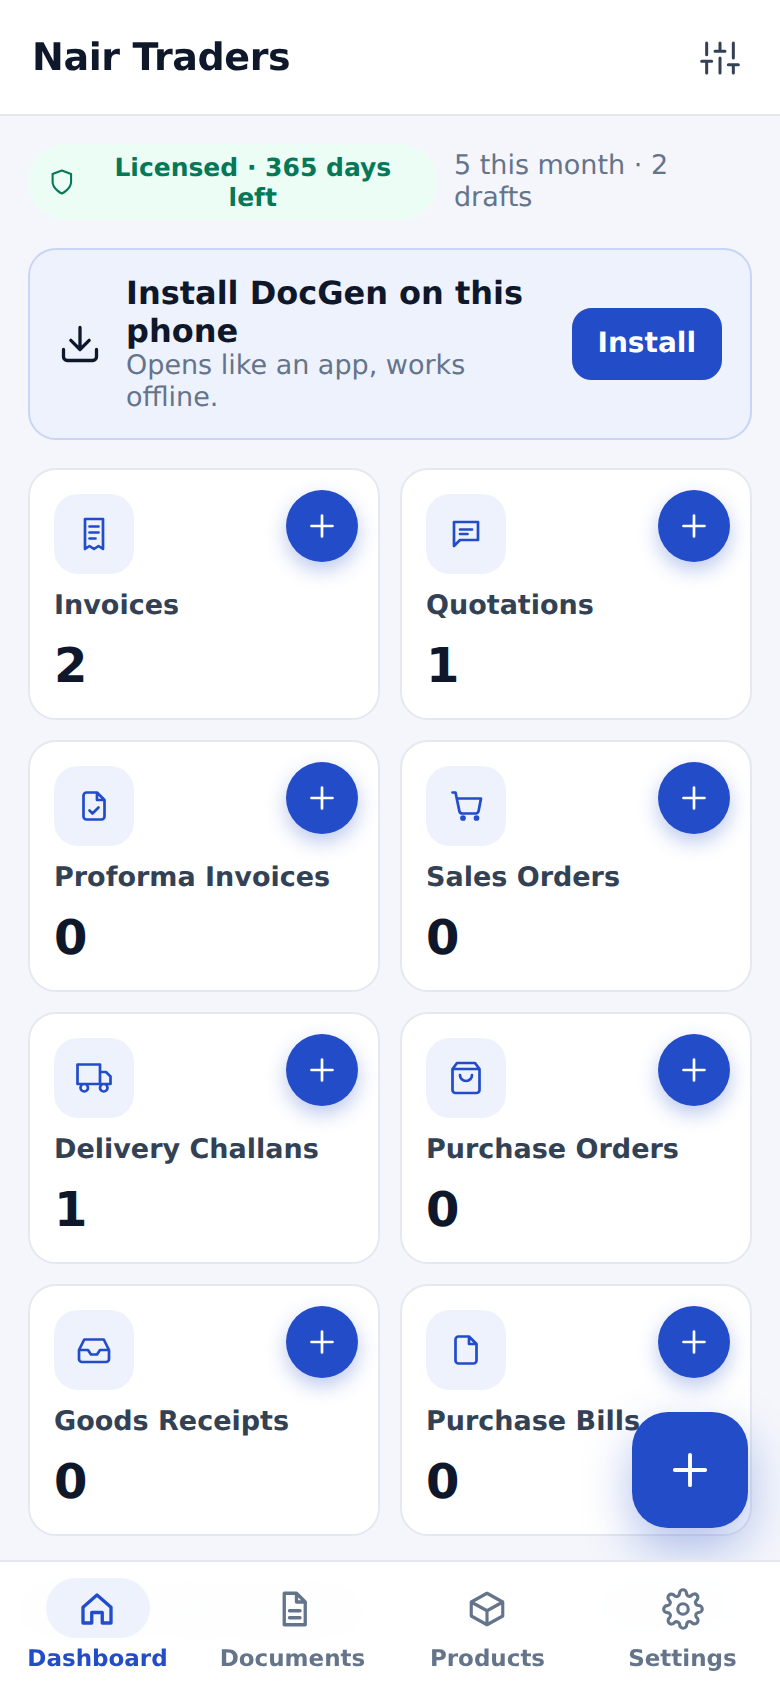
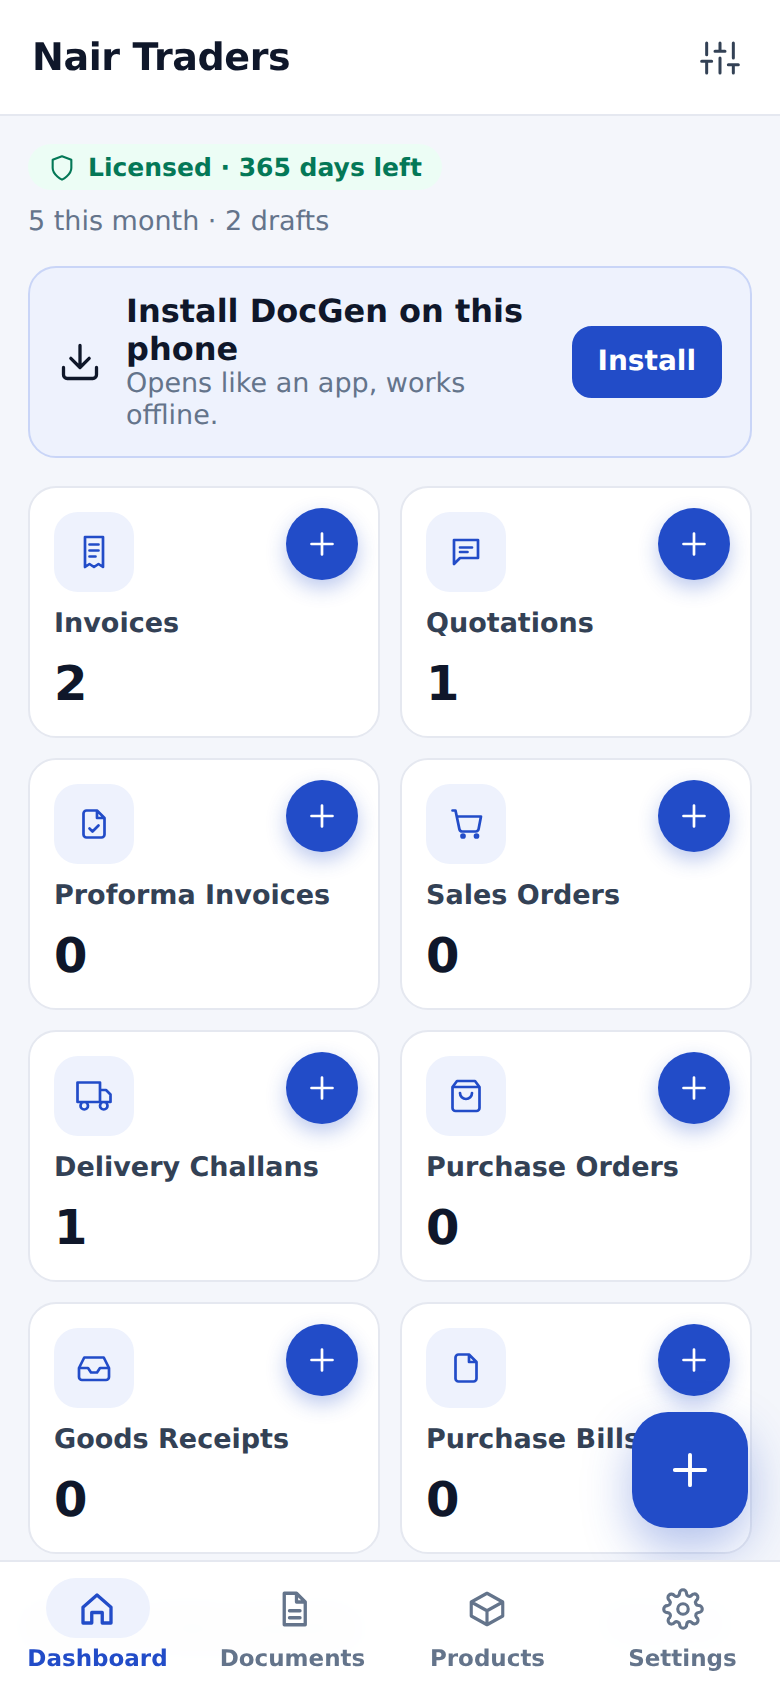
DocGen Mobile: tests for all desktop features (95 checks), screenshots, docs
- Mobile e2e: setup, invoices in the 4 templates, convert / duplicate / cancel / delete / restore, files,
  sales CSV, products and categories, settings, backup and restore, sample data, data from the first version
- Website and install page describe the full feature set; README / TESTING updated
- View buttons and license chip no longer wrap on narrow phones

Claude-Session: https://claude.ai/code/session_01D7TVF84vM5FBD22BWzVv3k

diff --git a/server/frontend/src/pages/portal/ProductPage.jsx b/server/frontend/src/pages/portal/ProductPage.jsx
@@ -325,8 +325,8 @@ export default function ProductPage() {
                 <span className="lp-eyebrow">New</span>
                 <h2 className="lp-title">DocGen on Mobile</h2>
                 <p className="lp-lead">
-                  Create invoices and quotations on your phone — even without internet. Install it from the browser in seconds; the same license
-                  works on your computer and up to {product?.maxMobileDevices || 2} phones.
+                  Everything DocGen does on your computer — all document types and the same invoice templates — on your phone, even without
+                  internet. Install it from the browser in seconds; the same license works on your computer and up to {product?.maxMobileDevices || 2} phones.
                 </p>
                 <div className="hero-cta" style={{ marginTop: 18 }}>
                   <Link className="btn btn-primary btn-lg" to="/mobile" data-testid="get-mobile">

diff --git a/server/frontend/src/pages/portal/MobilePage.jsx b/server/frontend/src/pages/portal/MobilePage.jsx
@@ -14,7 +14,7 @@ const isPhone = () => /Android|iPhone|iPad|Mobile/i.test(navigator.userAgent);
 const isLocal = () => ['localhost', '127.0.0.1', '[::1]'].includes(window.location.hostname);
 
 const FEATURES = [
-  ['file', 'Invoices & quotations', 'GST tax invoices, quotations, proforma invoices, estimates, delivery challans and more.'],
+  ['file', 'Everything the desktop app does', 'All 18 document types — GST invoices, quotations, challans, orders, receipts … — in the same 4 templates (Tally Professional, Tally Standard, Modern, Simple).'],
   ['monitor', 'Works offline', 'Your documents, customers and products are stored on the phone. No internet needed to work.'],
   ['printer', 'Share as PDF', 'Print or save any document as a PDF and send it on WhatsApp or email.'],
   ['key', 'Sign in once', 'Enter your license key once. DocGen remembers it while your license is valid.'],

diff --git a/server/mobile/src/styles.css b/server/mobile/src/styles.css
@@ -1685,3 +1685,14 @@ button.license-chip {
     grid-template-columns: 1fr 1fr;
   }
 }
+.view-actions .btn {
+  font-size: 15px;
+  white-space: nowrap;
+  gap: 6px;
+}
+.license-chip {
+  white-space: nowrap;
+}
+.page > .row.between {
+  flex-wrap: wrap;
+}

diff --git a/server/README.md b/server/README.md
@@ -28,9 +28,9 @@ Client panel → Services: product → duration → Razorpay payment → server 
 - **App API** (desktop and mobile): account sign-in, key activation, license refresh/release — computers
   and phones are counted separately and the limits are enforced by the server — plus remote
   configuration (check interval, ads, help videos) and anonymous ad counters for the desktop app.
-- **DocGen Mobile**: installable web app (PWA) for Android and iPhone at `/app/` — works on the phone
-  (IndexedDB), license key stored on the device, no repeated sign-in while the license is valid. See
-  [DocGen Mobile](#docgen-mobile).
+- **DocGen Mobile**: installable web app (PWA) for Android and iPhone at `/app/` with the desktop app's features
+  (all document types, the 4 templates, documents & files, products, settings) — works on the phone (IndexedDB),
+  license key stored on the device, no repeated sign-in while the license is valid. See [DocGen Mobile](#docgen-mobile).
 - **Admin panel** (sidebar; a menu on phones): dashboard (sales this month, revenue, recent sales,
   licenses ending soon, ad campaigns), customers, payments (with the duration bought; mark paid, refund),
   licenses (give without payment, bulk codes, extend, computers/phones allowed, suspend, revoke),
@@ -77,7 +77,7 @@ server/
 │   ├── scripts/    migrate, create-admin, build-portal, load test …
 │   └── test/       API tests
 ├── frontend/       website, client panel + admin panel (React + Vite) → frontend/dist
-├── mobile/         DocGen Mobile, installable web app (React + Vite, IndexedDB) → mobile/dist, served at /app/
+├── mobile/         DocGen Mobile, installable web app (React + Vite, IndexedDB; uses ../document-generator/src) → mobile/dist, at /app/
 └── data/           database (SQLite), license key, uploads — created at first start
 ```
 
@@ -248,22 +248,37 @@ Timestamps are stored as ISO-8601 UTC text, so the server's MySQL time zone does
 
 ### DocGen Mobile
 
-[`mobile/`](mobile/) is a separate React app, built to `mobile/dist` and served at `/app/`. It is a
-Progressive Web App: Android (Chrome) offers *Install*, iPhone uses *Share → Add to Home Screen*;
-`/mobile` explains it with screenshots, a QR code and the install button.
+[`mobile/`](mobile/) is a React app, built to `mobile/dist` and served at `/app/`. It is a Progressive Web App:
+Android (Chrome) offers *Install*, iPhone uses *Share → Add to Home Screen*; `/mobile` explains it with
+screenshots, a QR code and the install button.
 
-- **Works on the phone**: documents, parties, products and settings are stored in IndexedDB; nothing
-  is uploaded. Settings → Backup exports/imports a JSON file. A service worker keeps the app working offline.
-- **License on the device**: the customer enters the license key (or email + password) once. The signed
-  token is stored in IndexedDB encrypted with a non-extractable AES-GCM key; a summary (key, start, expiry,
-  device id) in localStorage only for display. At every start the app verifies the token's Ed25519
+- **Same features as the desktop app.** The mobile build imports the desktop app's own code from
+  `document-generator/src` (see `mobile/vite.config.js`): all 18 document types, the 4 templates and renderer
+  (Tally Professional, Tally Standard, Modern, Simple), the GST/decimal engine, numbering formats, amount in words,
+  HSN summary, UPI QR code and the document services. Only the screens are phone-specific (bottom tabs Dashboard ·
+  Documents · Products · Settings). The desktop app itself is not changed. Because of this, build the server from
+  the whole repository (the `document-generator/src` folder must be present next to `server/`).
+- **What is on the phone:** Dashboard (cards per document type with +, Customize, recent documents); Documents
+  (search, type filter, status change, view / edit / print / duplicate / convert / cancel / delete / restore,
+  uploaded files — PDF, photos, Excel … — with rename, save a copy, delete / restore, and the sales CSV download);
+  editor (saved customers and products, GSTIN → state, CGST/SGST or IGST from the place of supply, discounts,
+  shipping, other charges, round off, additional details per type, receipts and payment vouchers, live preview);
+  document view (template per document, Print / Save as PDF with 1–4 copies, share, history, contact the customer
+  by call / WhatsApp / email); Products & Services with categories; Settings (Company with logo, signature and stamp,
+  Documents, Document Types, Tax, Currency, Numbering, Units, General with sample data, License, Backup, Help, About).
+  Left out on purpose: the desktop's ads, theme switch and keyboard shortcuts.
+- **Storage:** the desktop's backend commands (Rust/SQLite on a computer) are implemented over IndexedDB in
+  [`mobile/src/engine/`](mobile/src/engine/) — same allow-lists, validation messages, numbering and history. Backup
+  is one JSON file (documents, files, images, settings); restoring keeps a safety copy. Data saved by the first
+  mobile version is converted automatically on first start.
+- **License on the device**: the customer enters the license key (or email + password) once. The signed token is
+  stored in IndexedDB encrypted with a non-extractable AES-GCM key (when the browser allows it); a summary (key,
+  start, expiry, device id) in localStorage only for display. At every start the app verifies the token's Ed25519
   signature with the server's public key and the device id — editing localStorage does not unlock it.
-- **Validation**: refreshes the license once a day when online (`/api/app/license/refresh`), works up to
-  30 days offline, locks when the license expired (or the clock was turned back) and unlocks after
-  *Check again* once the license is extended. A phone removed in the client/admin panel must activate again.
+- **Validation**: refreshes the license once a day when online (`/api/app/license/refresh`), works up to 30 days
+  offline, locks when the license expired (or the clock was turned back) and unlocks after *Check again* once the
+  license is extended. A phone removed in the client/admin panel must activate again.
 - **Phone limit**: from the product (default 2) or set per license — enforced by the server.
-- Screens: bottom tabs Dashboard, Documents, Products & Services, Settings; 8 document types with GST
-  calculation, share/print as PDF.
 
 ### Testing DocGen Mobile on a phone
 
@@ -336,8 +351,9 @@ Errors: `{ "error": { "code": "LICENSE_EXPIRED", "message": "…" } }`. Lists ar
 npm test                     # API + customer-journey tests (SQLite); TEST_DATABASE_URL=mysql://… runs them on MySQL
 npm run test:portal          # browser test: ad → product page → duration → checkout → Razorpay (simulated) → license, download,
                              #   extend, phones, client panel at phone width → admin (prices, downloads, licenses …)
-npm run test:mobile          # browser test of DocGen Mobile in a phone-sized window: install page, activation, device limit,
-                             #   documents, products, backup, offline, expiry lock, extension
+npm run test:mobile          # browser test of DocGen Mobile in a phone-sized window: install page, activation, setup, invoices
+                             #   in the 4 templates, convert / cancel / delete / restore, files, sales CSV, products, settings,
+                             #   backup, sample data, offline, phone limit, expiry lock, data from the first mobile version
 npm run loadtest             # seeds 10,000 clients + licenses, measures key endpoints (LOAD_CLIENTS=…)
 npm run seed:load -- 10000   # seed an existing (test!) database
 ```

diff --git a/TESTING.md b/TESTING.md
@@ -11,8 +11,8 @@ Last full run: **3 October 2026** (after prices per duration, license extension,
 | Server API + customer-journey tests (SQLite) | `cd server && npm test` | **54 / 54 passed** (19 API, 34 journey/checkout/payments/licensing/durations/phones/downloads/email, 1 rate-limit) |
 | Server API + customer-journey tests (MySQL 8.0) | `TEST_DATABASE_URL=mysql://… npm test` | **54 / 54 passed** |
 | Website, client panel + admin end-to-end (Chromium) | `cd server && npm run build && npm run test:portal` | **84 / 84 passed** (two consecutive runs) |
-| DocGen Mobile end-to-end (Chromium, phone-sized 390 × 844, touch) | `npm run test:mobile` | **51 / 51 passed** (incl. a plain http:// network address) |
-| Server, portal and mobile lint | ESLint (desktop rules) over `backend/src`, `frontend/src`, `mobile/src`, e2e scripts | 81 files, 0 problems |
+| DocGen Mobile end-to-end (Chromium, phone-sized 390 × 844, touch) | `npm run test:mobile` | **95 / 95 passed** (two consecutive runs; incl. a plain http:// network address) |
+| Server, portal and mobile lint | ESLint (desktop rules) over `backend/src`, `frontend/src`, `mobile/src`, e2e scripts | 91 files, 0 problems |
 | Server load test (SQLite and MySQL 8.0) | `npm run loadtest` | 0 errors, see below |
 | Windows + macOS installer build (GitHub Actions) | `docgen-build.yml` | Windows: build + unit tests passed (Windows-only PDF code compiles); macOS: see the workflow run |
 
@@ -139,24 +139,31 @@ for Razorpay (same signatures):
   to 3, website updates at once; Downloads: Linux link added, macOS and Mobile switched off → the
   customer's downloads follow (windows, linux) and the website hides the mobile section; switched on again.
 
-`npm run test:mobile` (51 checks) runs DocGen Mobile in a phone-sized touch browser against the real server:
+`npm run test:mobile` (95 checks) runs DocGen Mobile in a phone-sized touch browser against the real server. The phone
+app uses the desktop app's document engine and templates, so these checks also cover that shared code on a phone:
 
-- Installation page: Install button, Android and iPhone steps; manifest installable (standalone, maskable
-  icon); service worker active; install banner in the browser.
-- Activation: a wrong key is refused by the server; activation with the key (business name taken from the
-  account) and on a second phone with email + password; the server records the device as a phone.
-- License on the device: key, start and expiry in localStorage, the token encrypted in IndexedDB; writing a
-  fake license into localStorage does **not** unlock the app; **reopened without logging in** while valid.
-- Phone limit enforced by the server: the third phone is refused; signing out frees the place; a phone
-  removed in the client/admin panel must activate again.
-- Documents: GST invoice (customer GSTIN → state and place of supply, IGST, grand total), status change,
-  saved customers and products suggested, quotation printed without bank details by default, document
-  list and search, Products & Services; dashboard sales this month; **works offline**.
-- Plain `http://` network address (a phone on the same Wi-Fi, no `crypto.randomUUID` / `crypto.subtle`):
-  activation works, the signature is still checked, the app reopens without activating again, and it
-  explains that installing needs an `https://` address.
-- Expiry: an expired license (checked with the server) locks the app; after extending, "Check again"
-  unlocks it and shows the new expiry date.
+- Installation page, manifest, service worker, install banner; activation (wrong key refused, key, email + password).
+- Setup: company (GSTIN → state), business type and currency, template with a live sample invoice; 8 dashboard cards.
+- Company settings with address, bank details, UPI and a logo chosen from the phone.
+- Tax invoice: next number shown before saving, GSTIN → state → IGST, additional details (vehicle no.), item saved to
+  Products, units, IGST 9,180.00, grand total 60,180.00, amount in words, live preview; printed with title, numbers,
+  both GSTINs, place of supply, HSN, bank details and UPI QR; switched through all 4 templates; status Paid; contact
+  (WhatsApp link); history.
+- Convert invoice → payment receipt (amount carried over, "created from"), duplicate (INV-00002), cancel with a reason
+  (kept, marked CANCELLED).
+- Quotation: saved customer and product picked from suggestions, 10 % discount (26,550.00), no bank details by default.
+- Documents: list, status summary, search by number and by product, type filter, status quick change, delete → Deleted →
+  restore. Files: add a PDF, rename, save a copy, delete and restore. Sales CSV with the party GSTIN.
+- Products: category, HSN, price including GST, purchase price, category filter.
+- Settings: default template + 2 copies (second copy prepared for printing), numbering format `INV/2026-27/0003`, own
+  unit (Crate) used in a challan, per-type title (DELIVERY NOTE), challan without prices.
+- Backup file (documents, files, logo), sample data load, restore (sample data gone); works offline; reopened without
+  signing in.
+- Second phone: data saved by the first mobile version is converted (invoice INV-00007) and numbering continues at
+  INV-00008; phone limit enforced by the server; fake localStorage does not unlock; sign out frees a place; expiry locks
+  and "Check again" unlocks; a phone removed in the panel must activate again.
+- Plain `http://` network address: activation, a saved invoice and reopening work without `crypto.randomUUID` /
+  `crypto.subtle`; the app explains that installing needs `https://`.
 
 ## 4. Security checks covered by tests
 

diff --git a/README.md b/README.md
@@ -18,8 +18,9 @@ small businesses, by [reynrel.in](https://reynrel.in).
 - **Client panel**: My License (key, validity, devices), Services (buy or extend — shows the new expiry),
   Downloads (Windows, macOS, Linux, Mobile), Account. **Admin panel**: customers, payments, licenses,
   products & pricing, downloads, website, app settings, ads, activity log. Both work on phones.
-- **DocGen Mobile**: install from the client panel (Downloads → Mobile), enter the license key once and
-  create GST invoices, quotations and more on the phone; data stays on the phone.
+- **DocGen Mobile**: install from the client panel (Downloads → Mobile), enter the license key once and use the
+  desktop app's features on the phone — all document types, the same 4 templates, documents & files, products and
+  settings (it shares the desktop app's code); data stays on the phone.
 
 ![Tally Professional invoice](document-generator/docs/screenshots/09-invoice-tally-pro.png)
 
